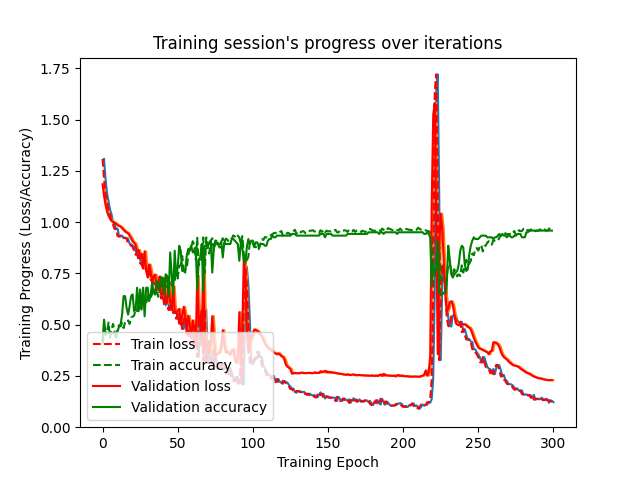
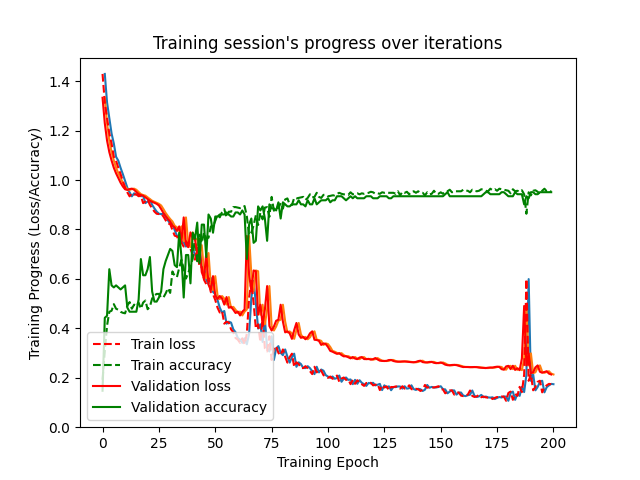
ad motion lstm recogntion

diff --git a/room_motion_activity/motion_lstm.py b/room_motion_activity/motion_lstm.py
@@ -11,7 +11,7 @@ random_seed = 42
 n_time_steps = 90
 n_features = 3 
 n_classes = 4
-n_epochs = 300       
+n_epochs = 200       
 batch_size = 1024   
 learning_rate = 0.0025
 l2_loss = 0.0015
